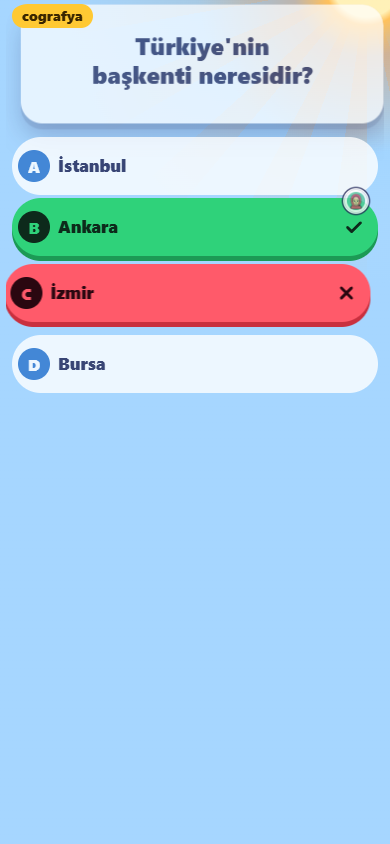
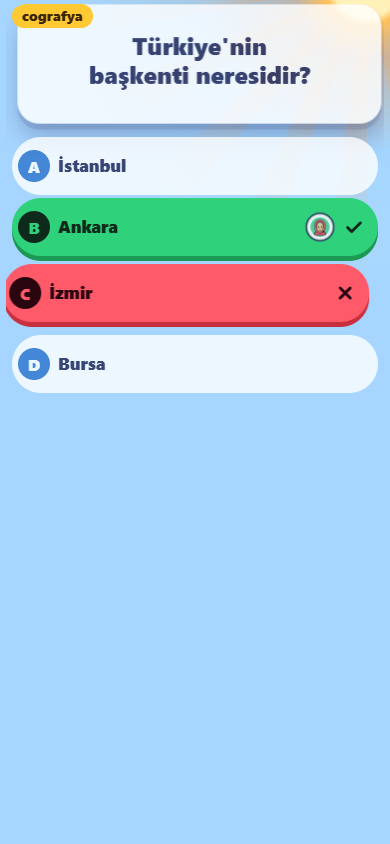
Rakibin şık avatarı şıkkın içine: doğru/yanlış işaretinin soluna, dikey ortada (Klasik, Saf Bilgi, Ortak Hazine)
Claude-Session: https://claude.ai/code/session_0157ns7f9DAhihHmbE9WP4ty

diff --git a/oyun/tasarim/bilesenler.css b/oyun/tasarim/bilesenler.css
@@ -1164,8 +1164,14 @@ html:not(.msk-acik) body:not(.bd-oyun-modu):has(.a-ust-blok):not(:has(.qt-ortu))
 .qt-sik-yuva--elendi .qt-sik { visibility: hidden; }
 /* 1062: rakibin seçtiği şık — şıkkın sağ üst kenarına binen küçük avatar(lar). Mutlak konum: şık yüksekliği/yerleşimi
    0 px oynar; nötr beyaz + lacivert kontur, doğru/yanlış renklerine dokunmaz. */
-.qt-sik-ek { position: absolute; top: -9px; right: 10px; z-index: 2; display: flex; gap: 3px; pointer-events: none; }
-.qt-sik-ek > * { flex: none; border-radius: 50%; background: #fff; box-shadow: 0 0 0 2px #fff, 0 0 0 3.5px var(--qt-metin); }
+/* 11 Eki: avatar şıkkın İÇİNDE, sağdaki doğru/yanlış işaretinin (28 px) soluna, dikey ortada; metne sağdan boşluk ayrılır
+   (:has ile; uzun şıkta metin 2 satıra iner, şık yüksekliği korunur). Kontur şıkkın içinde kalsın diye 2 px halka. */
+.qt-sik-ek { position: absolute; top: 50%; right: 46px; translate: 0 -50%; z-index: 2; display: flex; gap: 3px; pointer-events: none; }
+.qt-sik-ek > * { flex: none; border-radius: 50%; background: #fff; box-shadow: 0 0 0 1.5px #fff, 0 0 0 3px var(--qt-metin); }
+.qt-sik-yuva:has(> .qt-sik-ek) .qt-sik-metin { padding-right: 34px; }
+.qt-sik-yuva:has(> .qt-sik-ek > :nth-child(2)) .qt-sik-metin { padding-right: 61px; }
+.qt-sikler--iki .qt-sik-ek { top: auto; bottom: 6px; right: 6px; translate: none; }
+.qt-sikler--iki .qt-sik-yuva:has(> .qt-sik-ek) .qt-sik-metin { padding-right: 0; }
 @media (prefers-reduced-motion: no-preference) {
   .qt-sik-ek { animation: qt-sik-ek-gir 220ms cubic-bezier(.2, .9, .3, 1.2) both; }
 }
